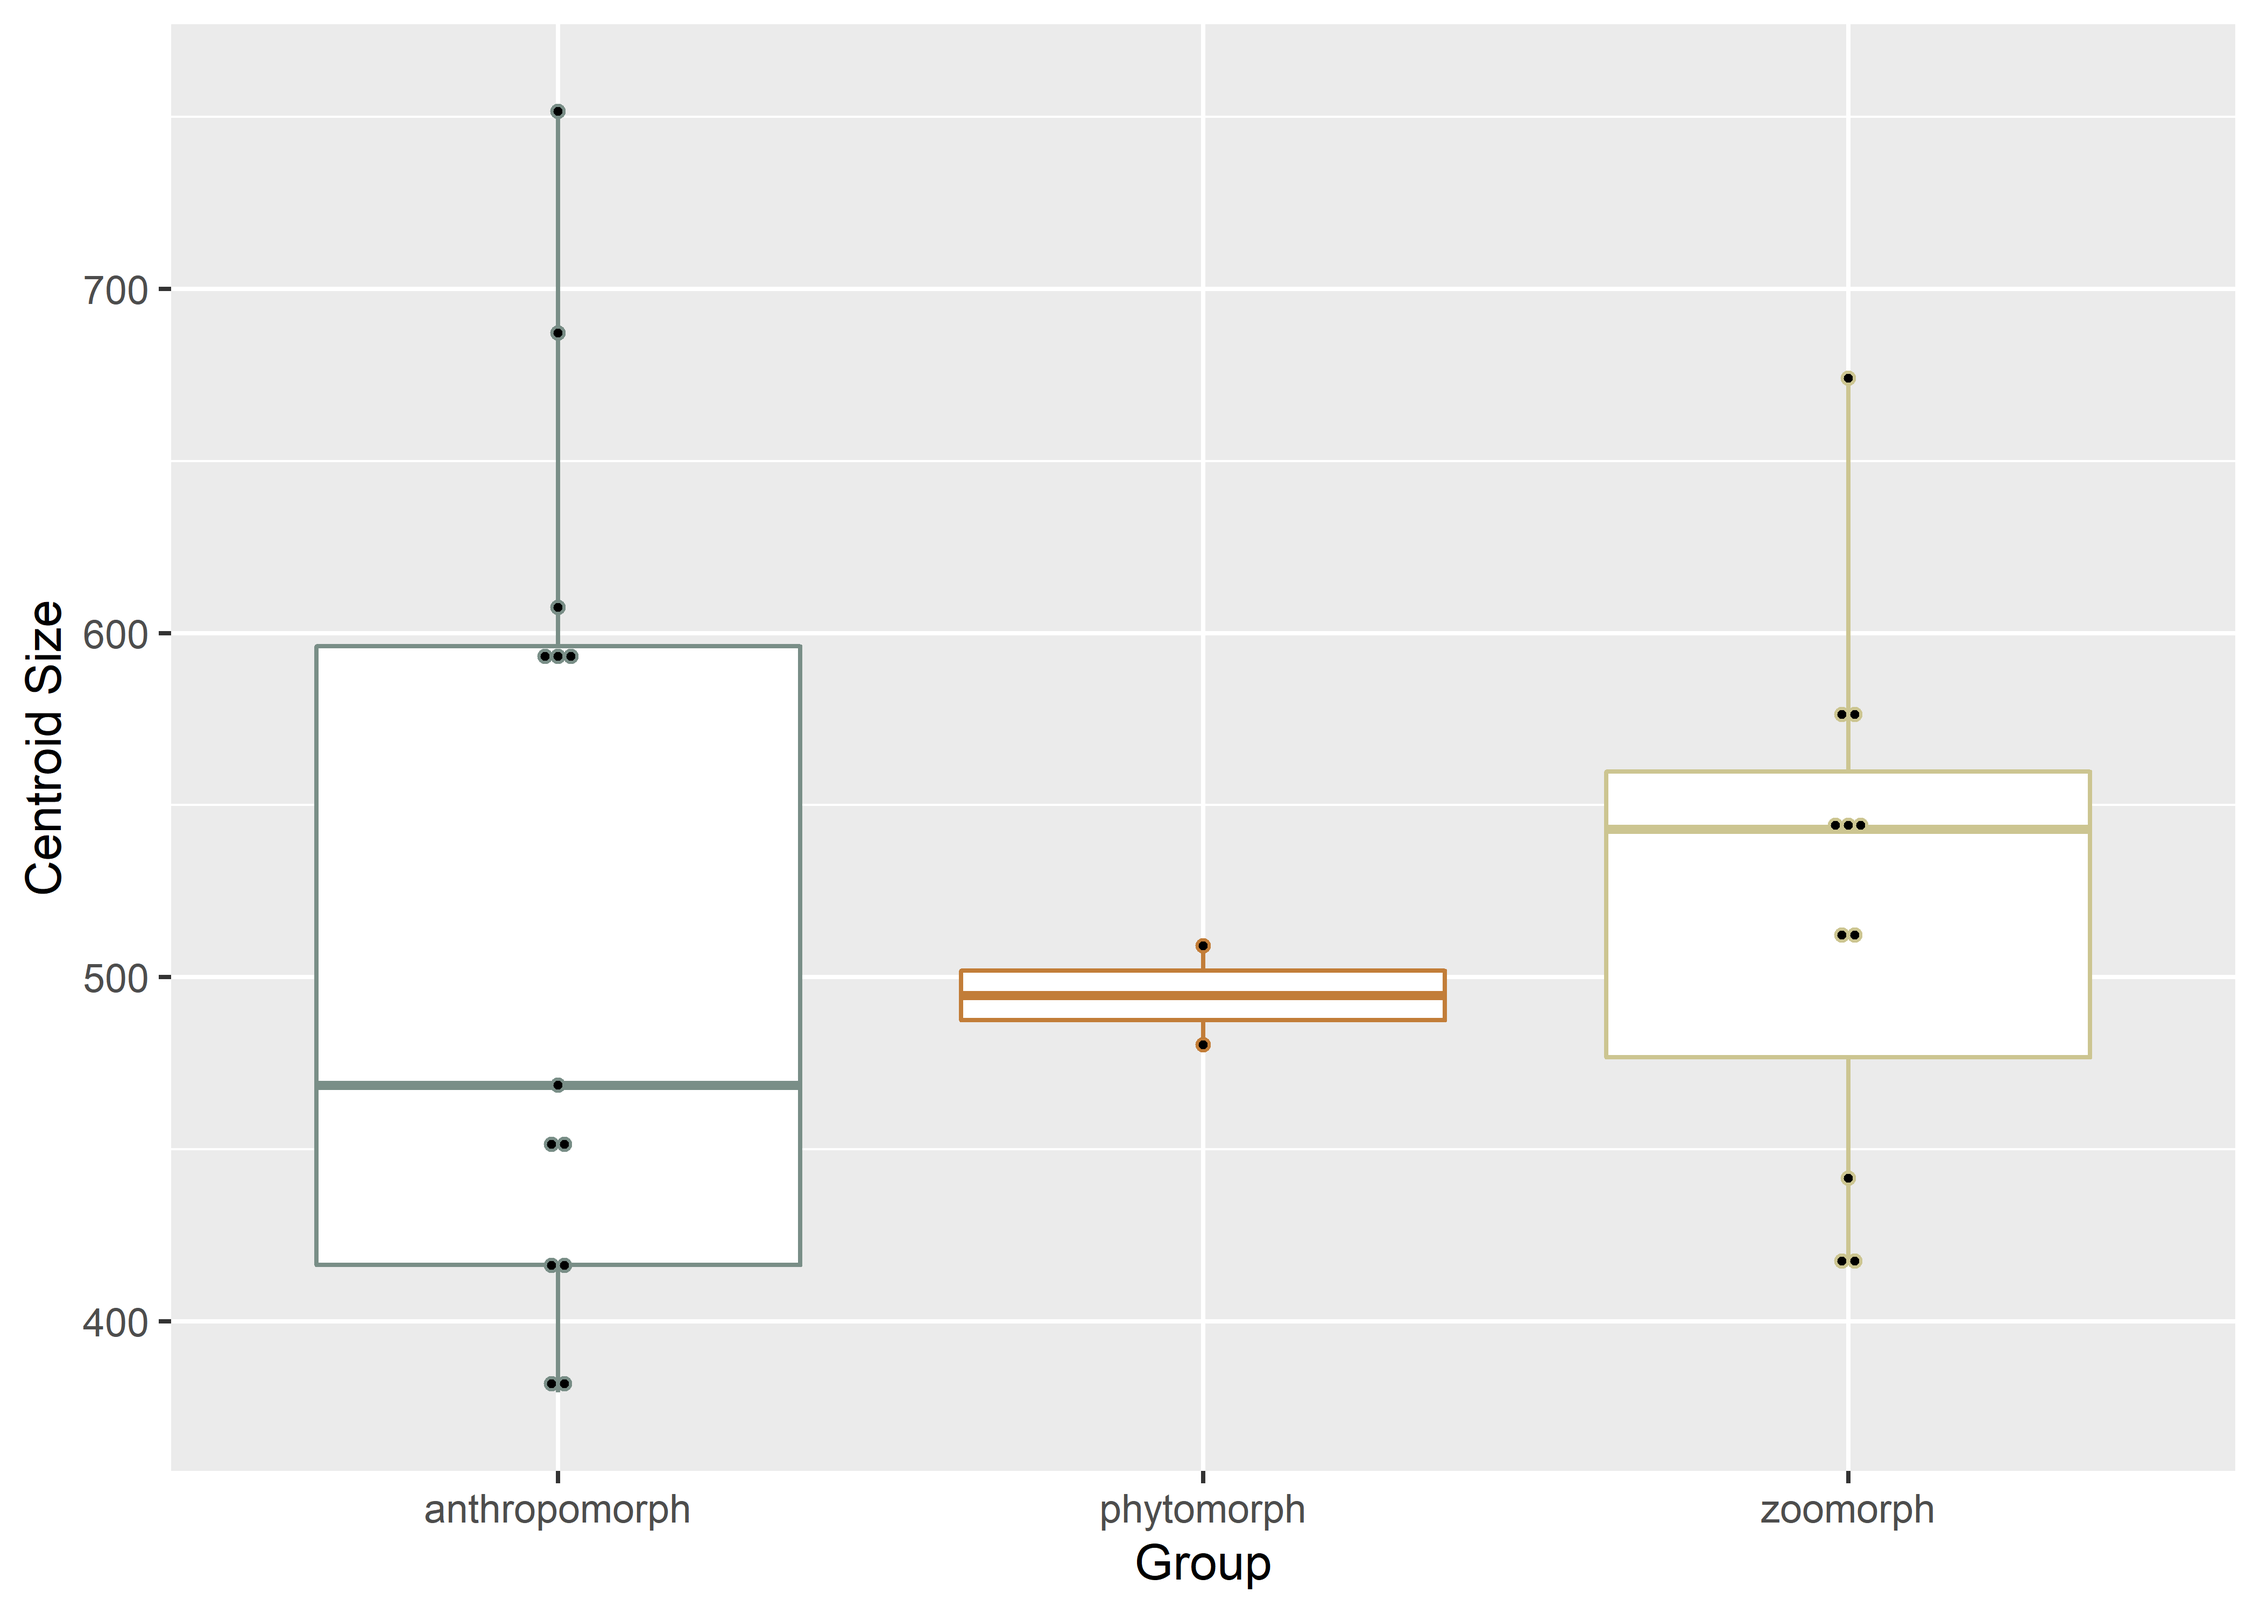
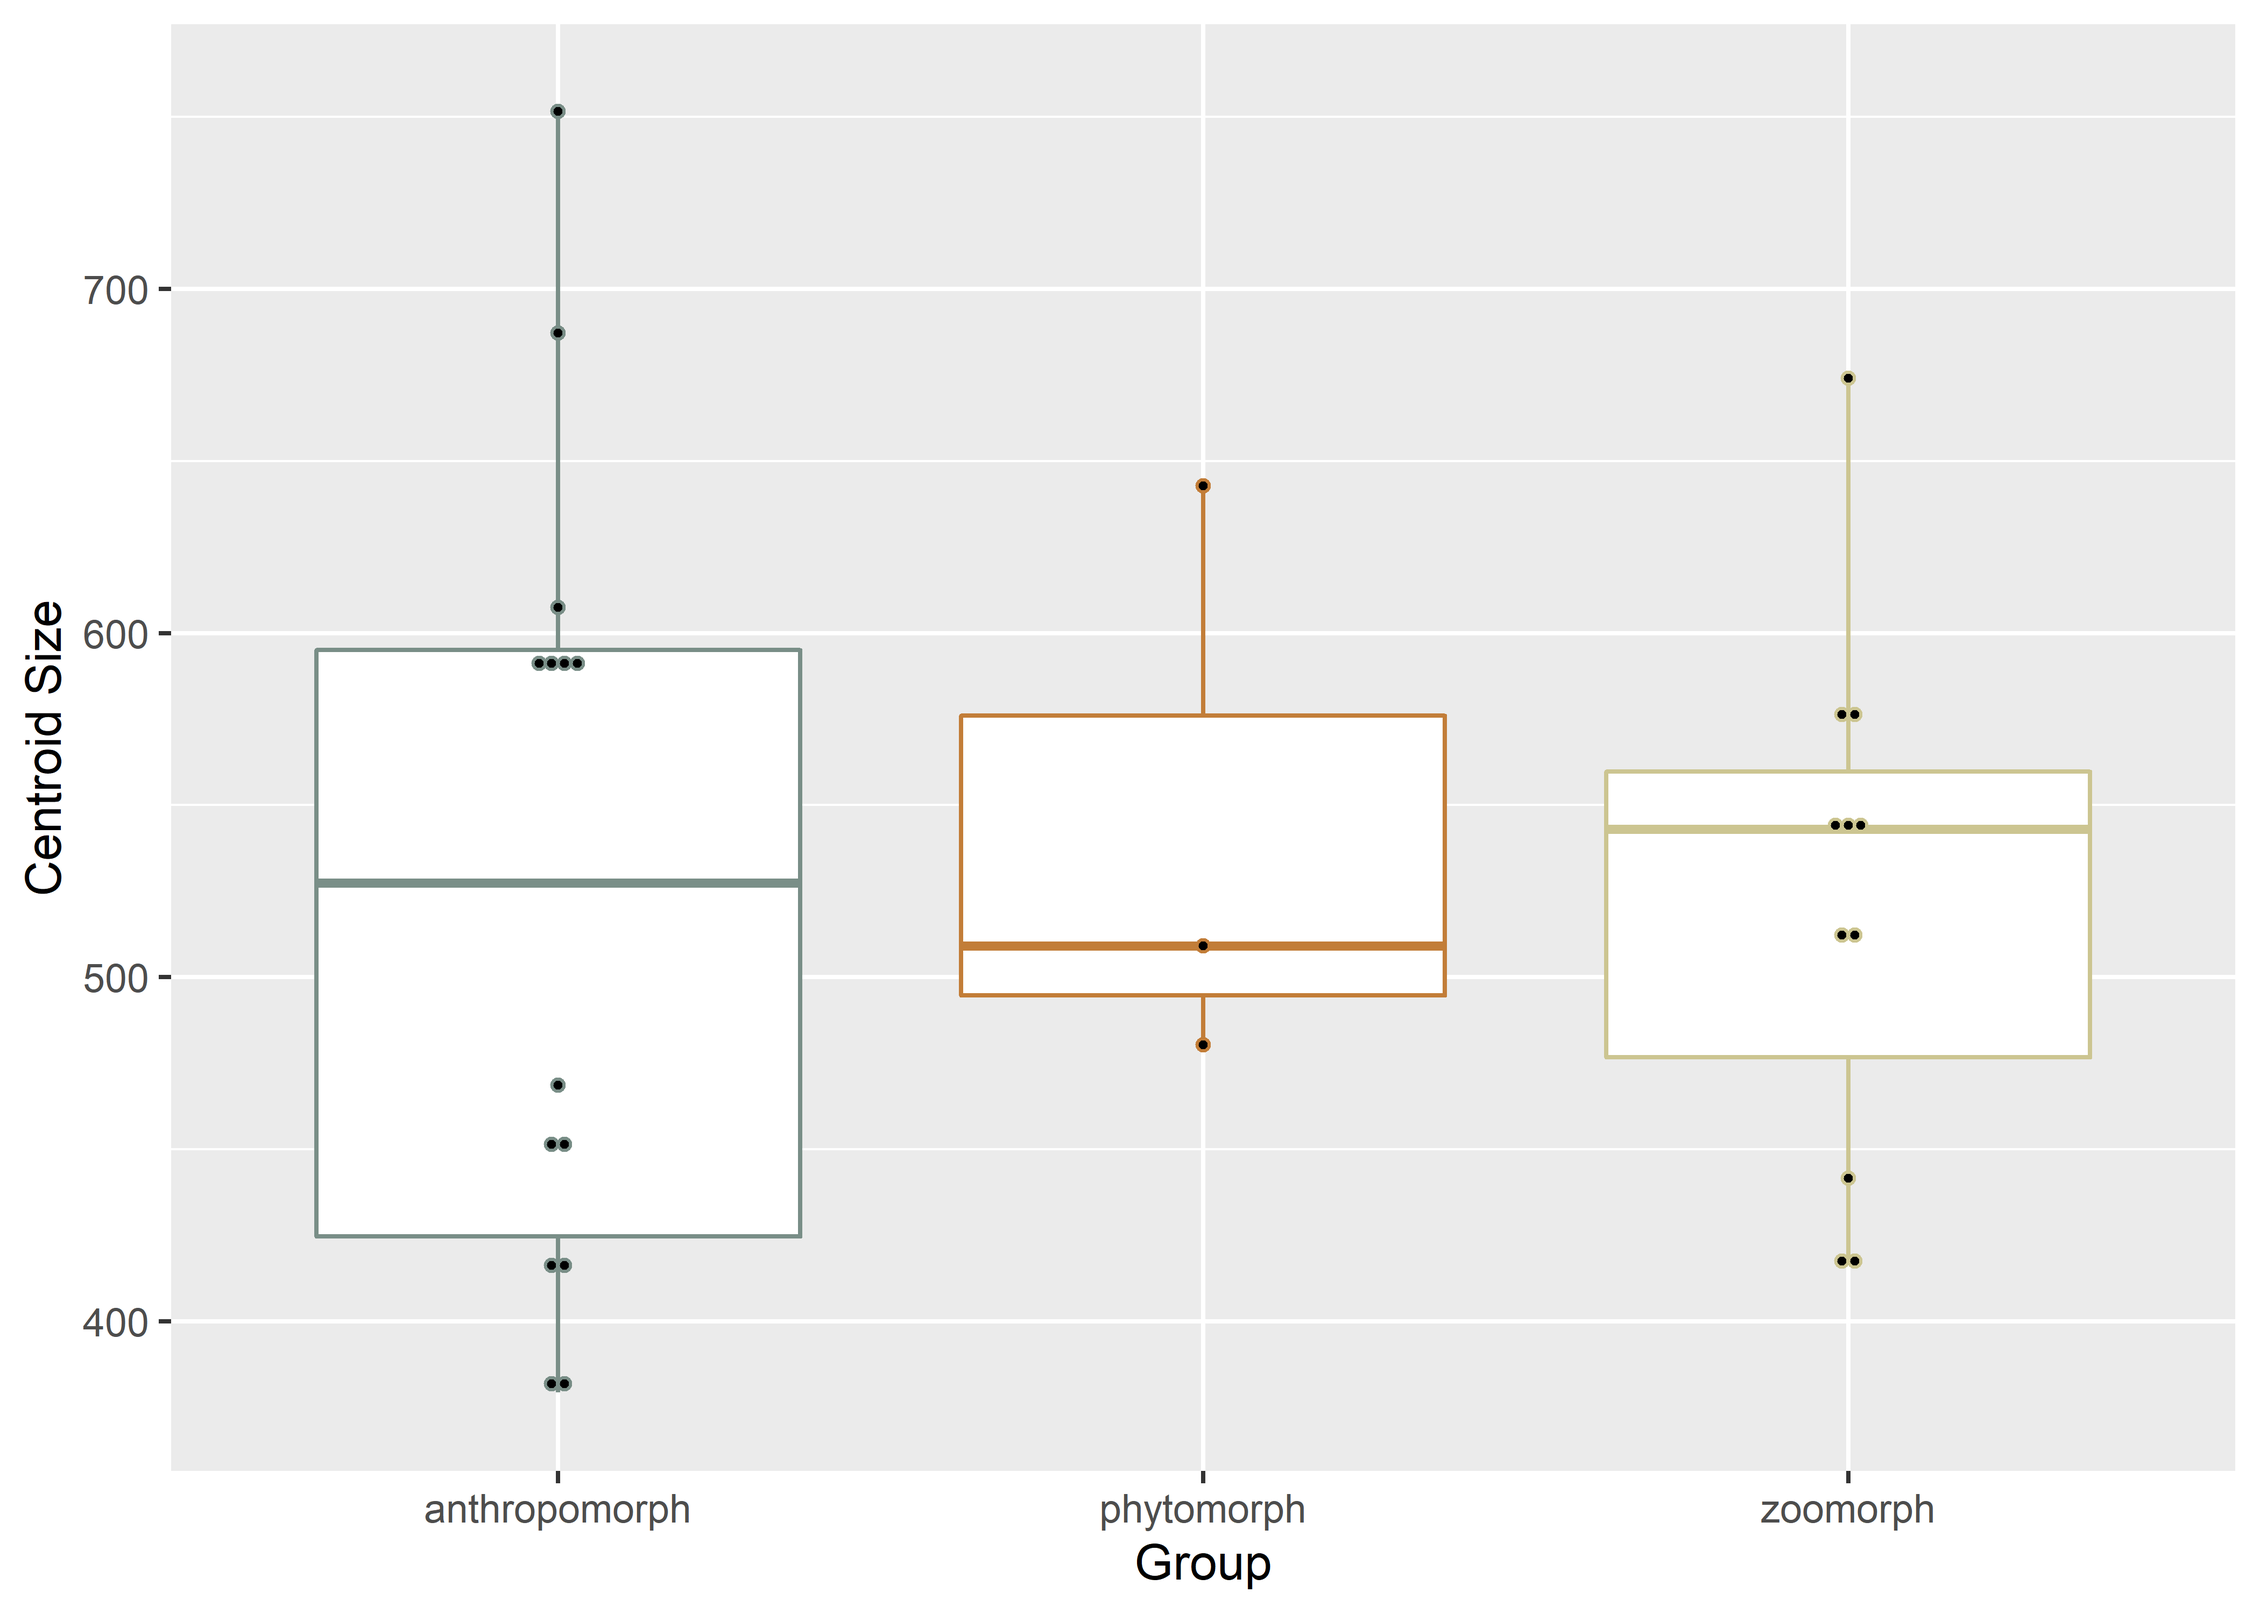
<edit supp>

diff --git a/supp/_book/geometric-morphometrics.html b/supp/_book/geometric-morphometrics.html
@@ -318,6 +318,18 @@ div.csl-indent {
 <td align="center">480.3691</td>
 </tr>
 <tr class="even">
+<td align="left">1608102</td>
+<td align="left">phytomorph</td>
+<td align="center">bottle</td>
+<td align="center">642.7924</td>
+</tr>
+<tr class="odd">
+<td align="left">1608111</td>
+<td align="left">anthropomorph</td>
+<td align="center">jar</td>
+<td align="center">585.9878</td>
+</tr>
+<tr class="even">
 <td align="left">1608122</td>
 <td align="left">zoomorph</td>
 <td align="center">bottle</td>
@@ -522,38 +534,38 @@ Figure 3.2: Boxplot of centroid size by spatial/temporal unit.
 ## Ordination type: Principal Component Analysis 
 ## Centering by OLS mean
 ## Orthogonal projection of OLS residuals
-## Number of observations: 26 
-## Number of vectors 25 
+## Number of observations: 28 
+## Number of vectors 27 
 ## 
 ## Importance of Components:
 ##                              Comp1       Comp2       Comp3        Comp4
-## Eigenvalues            0.003406636 0.002904614 0.001085363 0.0008163987
-## Proportion of Variance 0.364568067 0.310843116 0.116152324 0.0873685541
-## Cumulative Proportion  0.364568067 0.675411183 0.791563507 0.8789320611
+## Eigenvalues            0.003294174 0.002979633 0.001010952 0.0008667081
+## Proportion of Variance 0.356118896 0.322115291 0.109289624 0.0936960721
+## Cumulative Proportion  0.356118896 0.678234187 0.787523811 0.8812198830
 ##                               Comp5        Comp6        Comp7        Comp8
-## Eigenvalues            0.0003513688 0.0003033509 0.0002057818 6.983398e-05
-## Proportion of Variance 0.0376024392 0.0324637071 0.0220221568 7.473425e-03
-## Cumulative Proportion  0.9165345003 0.9489982074 0.9710203642 9.784938e-01
+## Eigenvalues            0.0003340314 0.0002821747 0.0002072099 0.0000650576
+## Proportion of Variance 0.0361106900 0.0305046935 0.0224005681 0.0070330966
+## Cumulative Proportion  0.9173305731 0.9478352666 0.9702358346 0.9772689312
 ##                               Comp9       Comp10       Comp11       Comp12
-## Eigenvalues            4.326303e-05 4.161456e-05 3.023398e-05 2.305853e-05
-## Proportion of Variance 4.629880e-03 4.453466e-03 3.235550e-03 2.467655e-03
-## Cumulative Proportion  9.831237e-01 9.875771e-01 9.908127e-01 9.932803e-01
+## Eigenvalues            4.284672e-05 3.993731e-05 3.273074e-05 2.156769e-05
+## Proportion of Variance 4.631973e-03 4.317450e-03 3.538379e-03 2.331590e-03
+## Cumulative Proportion  9.819009e-01 9.862184e-01 9.897567e-01 9.920883e-01
 ##                              Comp13       Comp14       Comp15       Comp16
-## Eigenvalues            1.557829e-05 1.157252e-05 8.623768e-06 6.551702e-06
-## Proportion of Variance 1.667142e-03 1.238457e-03 9.228899e-04 7.011436e-04
-## Cumulative Proportion  9.949475e-01 9.961859e-01 9.971088e-01 9.978100e-01
+## Eigenvalues            1.988888e-05 1.505334e-05 8.615991e-06 6.697543e-06
+## Proportion of Variance 2.150101e-03 1.627352e-03 9.314376e-04 7.240424e-04
+## Cumulative Proportion  9.942384e-01 9.958658e-01 9.967972e-01 9.975213e-01
 ##                              Comp17       Comp18       Comp19       Comp20
-## Eigenvalues            5.695740e-06 4.375184e-06 3.305860e-06 2.134471e-06
-## Proportion of Variance 6.095412e-04 4.682192e-04 3.537833e-04 2.284247e-04
-## Cumulative Proportion  9.984195e-01 9.988877e-01 9.992415e-01 9.994699e-01
+## Eigenvalues            5.504860e-06 4.519483e-06 3.192575e-06 2.750250e-06
+## Proportion of Variance 5.951067e-04 4.885818e-04 3.451355e-04 2.973177e-04
+## Cumulative Proportion  9.981164e-01 9.986049e-01 9.989501e-01 9.992474e-01
 ##                              Comp21       Comp22       Comp23       Comp24
-## Eigenvalues            1.978292e-06 1.282195e-06 9.520991e-07 7.263977e-07
-## Proportion of Variance 2.117110e-04 1.372167e-04 1.018908e-04 7.773691e-05
-## Cumulative Proportion  9.996817e-01 9.998189e-01 9.999208e-01 9.999985e-01
-##                              Comp25
-## Eigenvalues            1.404038e-08
-## Proportion of Variance 1.502559e-06
-## Cumulative Proportion  1.000000e+00</code></pre>
+## Eigenvalues            1.988740e-06 1.630011e-06 1.205628e-06 8.531169e-07
+## Proportion of Variance 2.149941e-04 1.762135e-04 1.303352e-04 9.222679e-05
+## Cumulative Proportion  9.994624e-01 9.996386e-01 9.997689e-01 9.998612e-01
+##                              Comp25       Comp26       Comp27
+## Eigenvalues            7.930714e-07 4.791956e-07 1.196277e-08
+## Proportion of Variance 8.573553e-05 5.180376e-05 1.293243e-06
+## Cumulative Proportion  9.999469e-01 9.999987e-01 1.000000e+00</code></pre>
 <div class="sourceCode" id="cb19"><pre class="sourceCode r"><code class="sourceCode r"><span id="cb19-1"><a href="geometric-morphometrics.html#cb19-1" aria-hidden="true" tabindex="-1"></a><span class="co"># set plot parameters (groups)</span></span>
 <span id="cb19-2"><a href="geometric-morphometrics.html#cb19-2" aria-hidden="true" tabindex="-1"></a>pch.gps <span class="ot">&lt;-</span> <span class="fu">c</span>(<span class="dv">15</span><span class="sc">:</span><span class="dv">17</span>)[<span class="fu">as.factor</span>(group)]</span>
 <span id="cb19-3"><a href="geometric-morphometrics.html#cb19-3" aria-hidden="true" tabindex="-1"></a>col.gps <span class="ot">&lt;-</span> <span class="fu">wes_palette</span>(<span class="st">&quot;Moonrise2&quot;</span>)[<span class="fu">as.factor</span>(group)]</span>
@@ -630,10 +642,10 @@ Figure 3.2: Boxplot of centroid size by spatial/temporal unit.
 ## Sums of Squares and Cross-products: Type I 
 ## Effect sizes (Z) based on F distributions
 ## 
-##           Df     SS      MS     Rsq     F       Z Pr(&gt;F)
-## group      2   1479   739.6 0.00623 0.072 -1.5443 0.9355
-## Residuals 23 236143 10267.1 0.99377                     
-## Total     25 237622                                     
+##           Df     SS      MS     Rsq      F       Z Pr(&gt;F)
+## group      2    994   497.2 0.00389 0.0488 -1.6901 0.9531
+## Residuals 25 254499 10180.0 0.99611                      
+## Total     27 255493                                      
 ## 
 ## Call: procD.lm(f1 = size ~ group, iter = 9999, data = gdf, print.progress = FALSE)</code></pre>
 <div class="sourceCode" id="cb25"><pre class="sourceCode r"><code class="sourceCode r"><span id="cb25-1"><a href="geometric-morphometrics.html#cb25-1" aria-hidden="true" tabindex="-1"></a><span class="co"># ANOVA: do group shapes differ?</span></span>
@@ -647,9 +659,9 @@ Figure 3.2: Boxplot of centroid size by spatial/temporal unit.
 ## Effect sizes (Z) based on F distributions
 ## 
 ##           Df       SS        MS     Rsq      F        Z Pr(&gt;F)
-## group      2 0.013796 0.0068979 0.05906 0.7218 -0.49321 0.6911
-## Residuals 23 0.219812 0.0095570 0.94094                       
-## Total     25 0.233608                                         
+## group      2 0.014672 0.0073359 0.05874 0.7801 -0.35144 0.6357
+## Residuals 25 0.235084 0.0094034 0.94126                       
+## Total     27 0.249756                                         
 ## 
 ## Call: procD.lm(f1 = shape ~ group, iter = 9999, data = gdf, print.progress = FALSE)</code></pre>
 <div class="sourceCode" id="cb27"><pre class="sourceCode r"><code class="sourceCode r"><span id="cb27-1"><a href="geometric-morphometrics.html#cb27-1" aria-hidden="true" tabindex="-1"></a><span class="co"># ANOVA: do type sizes differ?</span></span>
@@ -662,10 +674,10 @@ Figure 3.2: Boxplot of centroid size by spatial/temporal unit.
 ## Sums of Squares and Cross-products: Type I 
 ## Effect sizes (Z) based on F distributions
 ## 
-##           Df     SS      MS     Rsq      F       Z Pr(&gt;F)
-## type       1  13325 13325.0 0.05608 1.4258 0.74554 0.2384
-## Residuals 24 224297  9345.7 0.94392                      
-## Total     25 237622                                      
+##           Df     SS      MS    Rsq      F       Z Pr(&gt;F)
+## type       1  13005 13004.8 0.0509 1.3944 0.72524 0.2476
+## Residuals 26 242489  9326.5 0.9491                      
+## Total     27 255493                                     
 ## 
 ## Call: procD.lm(f1 = size ~ type, iter = 9999, data = gdf, print.progress = FALSE)</code></pre>
 <div class="sourceCode" id="cb29"><pre class="sourceCode r"><code class="sourceCode r"><span id="cb29-1"><a href="geometric-morphometrics.html#cb29-1" aria-hidden="true" tabindex="-1"></a><span class="co"># ANOVA: do type shapes differ?</span></span>
@@ -679,9 +691,9 @@ Figure 3.2: Boxplot of centroid size by spatial/temporal unit.
 ## Effect sizes (Z) based on F distributions
 ## 
 ##           Df       SS       MS     Rsq      F      Z Pr(&gt;F)    
-## type       1 0.050687 0.050687 0.21697 6.6503 3.4656  2e-04 ***
-## Residuals 24 0.182921 0.007622 0.78303                         
-## Total     25 0.233608                                          
+## type       1 0.058405 0.058405 0.23385 7.9359 3.8403  1e-04 ***
+## Residuals 26 0.191350 0.007360 0.76615                         
+## Total     27 0.249756                                          
 ## ---
 ## Signif. codes:  0 &#39;***&#39; 0.001 &#39;**&#39; 0.01 &#39;*&#39; 0.05 &#39;.&#39; 0.1 &#39; &#39; 1
 ## 
